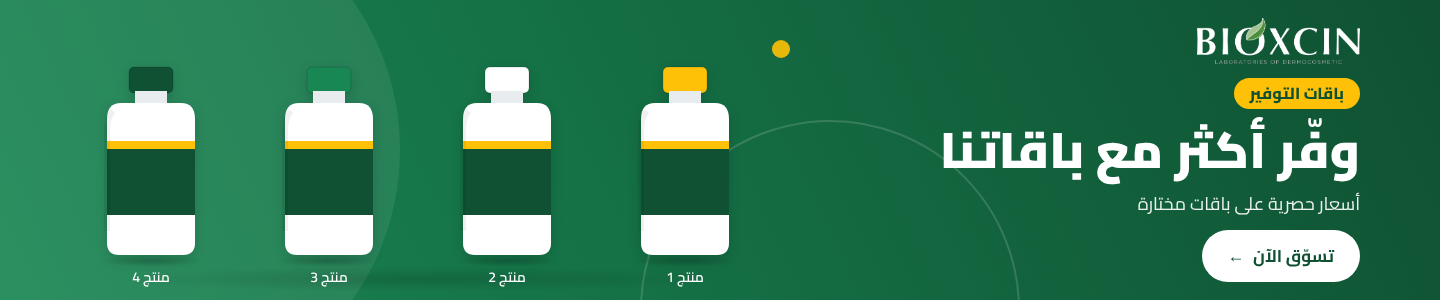
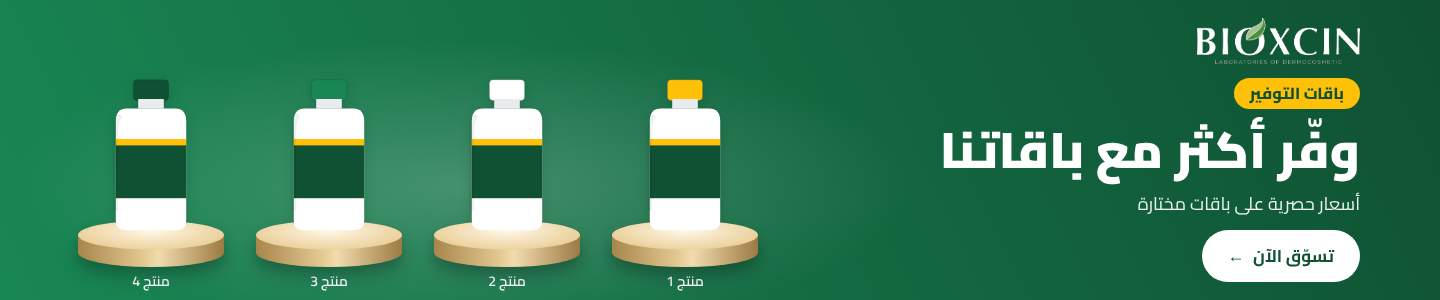
Studio look: plain background with soft light and gold product pedestals
Claude-Session: https://claude.ai/code/session_01MejyVmSq2aYVYmituLqweB

diff --git a/banners/banners.css b/banners/banners.css
@@ -317,3 +317,39 @@ img.logo { object-fit: contain; }
     radial-gradient(circle at 50% 62%, rgba(255,255,255,.22), transparent 50%),
     radial-gradient(rgba(255,255,255,.12) 1.2px, transparent 1.6px) 0 0/18px 18px;
 }
+
+/* ---------- studio: plain background, soft light, gold pedestals ---------- */
+.pat-studio .deco { display: none; }
+.pat-studio::before { background: radial-gradient(ellipse 45% 70% at 68% 62%, rgba(255,255,255,.2), transparent 70%); }
+.pat-studio[dir="rtl"]::before { background: radial-gradient(ellipse 45% 70% at 32% 62%, rgba(255,255,255,.2), transparent 70%); }
+.mobile-vertical-hero.pat-studio::before { background: radial-gradient(ellipse 70% 45% at 50% 62%, rgba(255,255,255,.2), transparent 70%); }
+.pat-studio .products::after { display: none; }
+
+/* pedestal = gold top ellipse (::before) over a cylinder side (::after) */
+.pat-studio .product-media::before, .pat-studio .product-media::after {
+  content: ""; position: absolute; left: -6%; width: 112%; pointer-events: none;
+}
+.pat-studio .product-media::before {
+  z-index: -1; bottom: 0; aspect-ratio: 5 / 1; transform: translateY(50%); border-radius: 50%;
+  background: radial-gradient(ellipse at 50% 35%, #fff8e8, #ecd29f 70%, #d9b778);
+  height: auto; right: auto;
+}
+.pat-studio .product-media::after {
+  z-index: -2; top: 100%; bottom: auto; aspect-ratio: 5 / 1.1; height: auto; right: auto;
+  border-radius: 0 0 50% 50% / 0 0 45% 45%;
+  background: linear-gradient(90deg, #a8864b, #e3c891 45%, #f1dcae 55%, #9c7a42);
+  box-shadow: 0 10px 18px rgba(0,0,0,.18);
+}
+.pat-studio .product-name { margin-top: 30px; }
+.mobile-vertical-hero.pat-studio .product-name { margin-top: 34px; }
+.desktop-hero.pat-studio .products { padding-bottom: 34px; }
+.desktop-hero.pat-studio.n7 .product-media, .desktop-hero.pat-studio.n8 .product-media { height: 200px; }
+.mobile-hero.pat-studio:not(.many) .products { padding-bottom: 46px; }
+.mobile-slim.pat-studio:not(.many) .products { padding-bottom: 30px; }
+.desktop-hero.pat-studio:not(.n7):not(.n8) .products { padding: 18px 0 10px; }
+.desktop-hero.pat-studio:not(.n7):not(.n8) .product-media { height: 160px; }
+.desktop-hero.pat-studio .product-name { margin-top: 38px; }
+.mobile-vertical-hero.pat-studio:not(.many) .product-media::before,
+.mobile-vertical-hero.pat-studio:not(.many) .product-media::after { left: 8%; width: 84%; }
+.mobile-vertical-hero.pat-studio:not(.many) .product-name { margin-top: 46px; }
+.mobile-vertical-hero.pat-studio.n4 .product-media { height: 200px; }

diff --git a/banners/offers.js b/banners/offers.js
@@ -26,8 +26,8 @@ const BRAND = {
 // How the numbers in the headline look: "plain" | "tilt" | "tag" | "sticker"
 const HEADLINE_STYLE = "plain";
 
-// Background pattern: "circles" | "waves" | "leaves" | "glow"
-const PATTERN = "circles";
+// Background pattern: "studio" (plain + product pedestals) | "circles" | "waves" | "leaves" | "glow"
+const PATTERN = "studio";
 
 const OFFERS = [
   {
